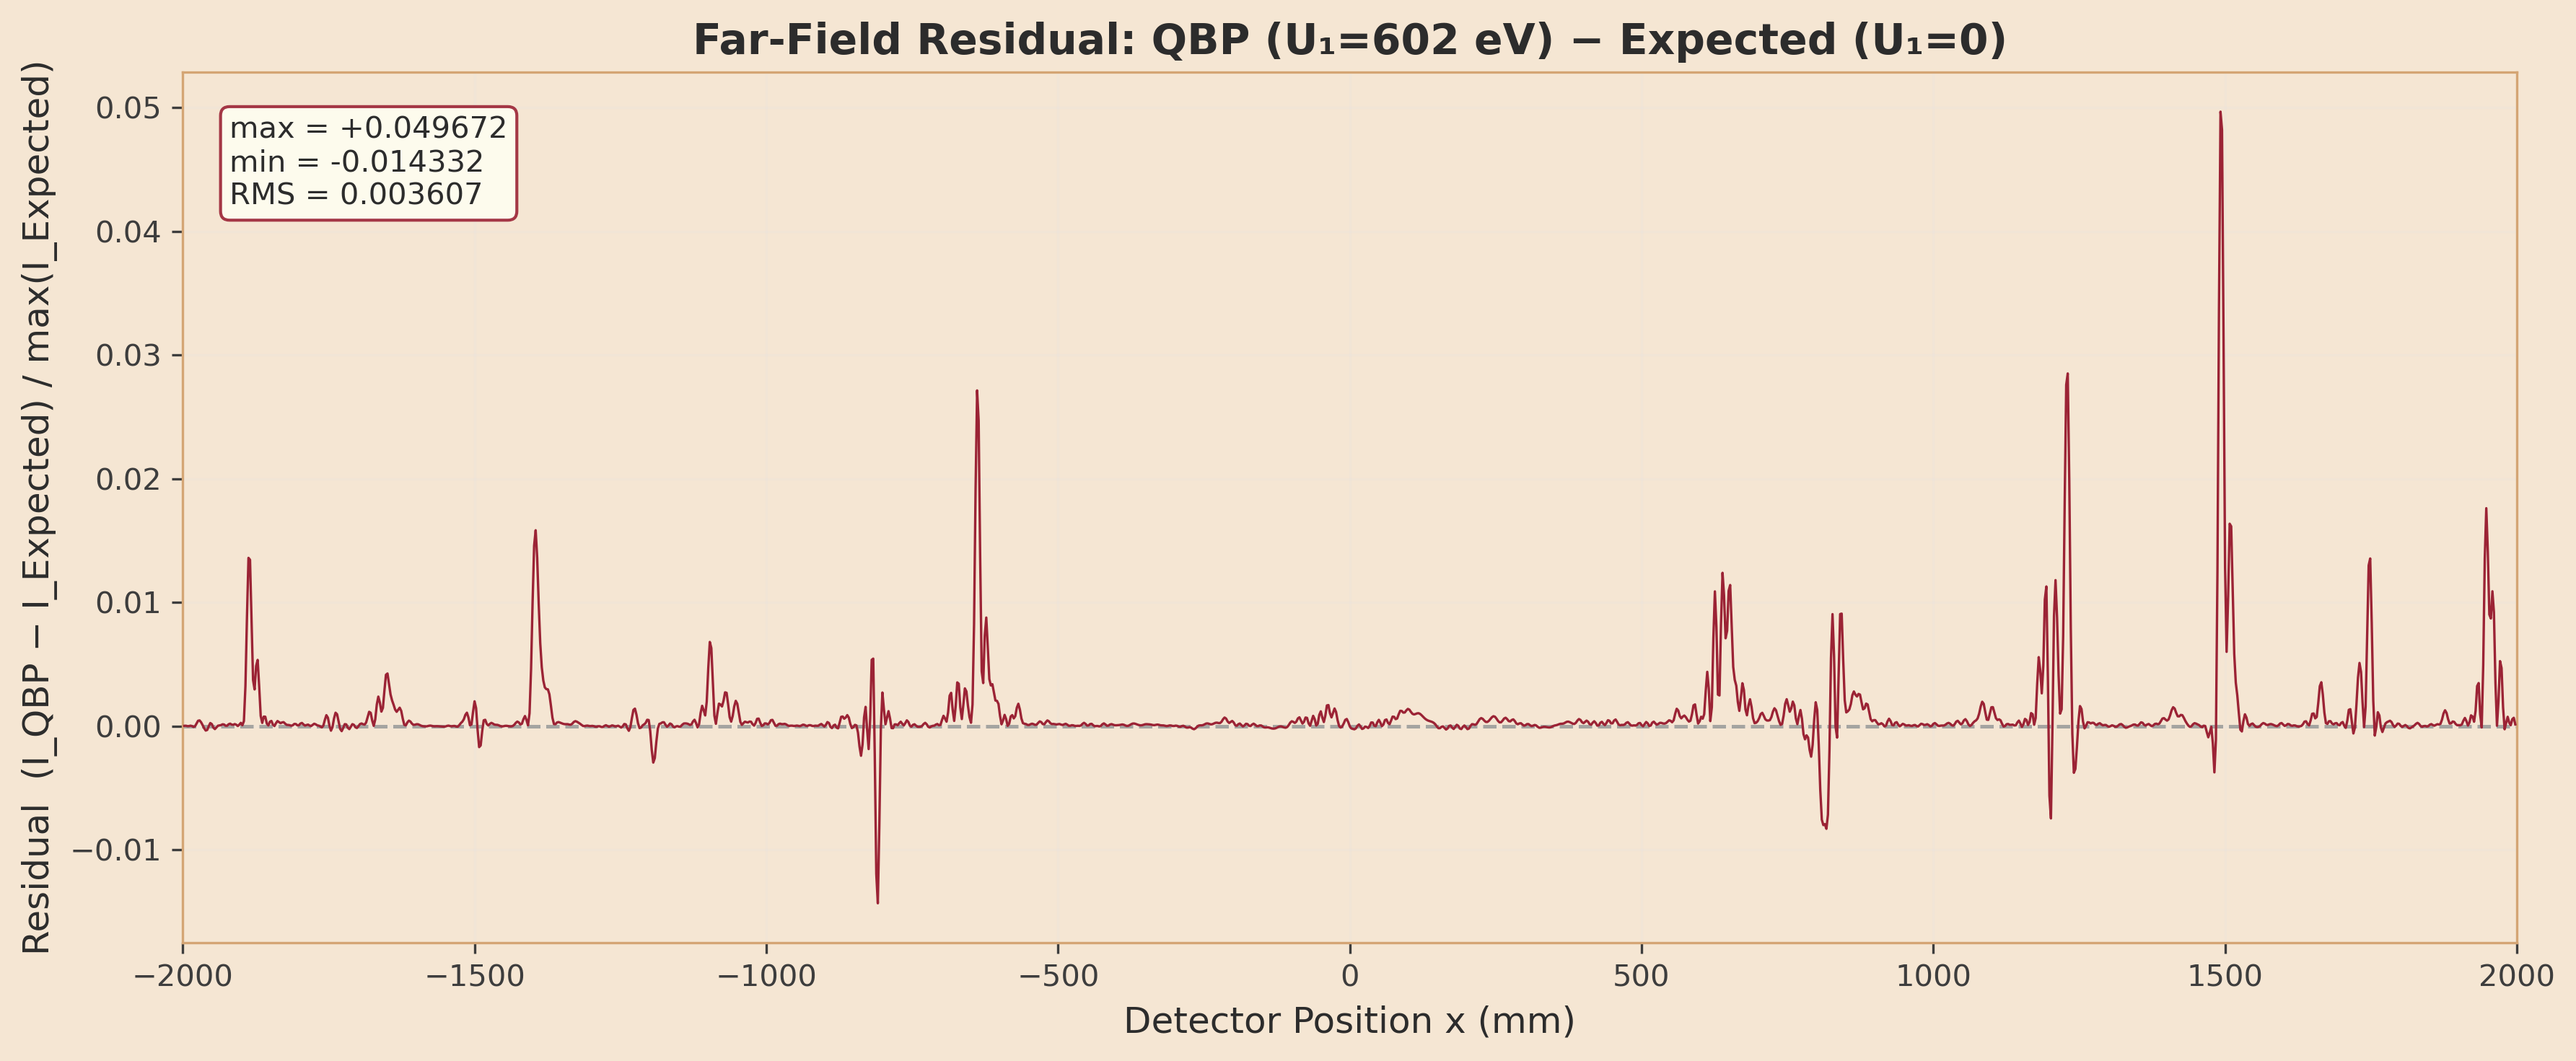
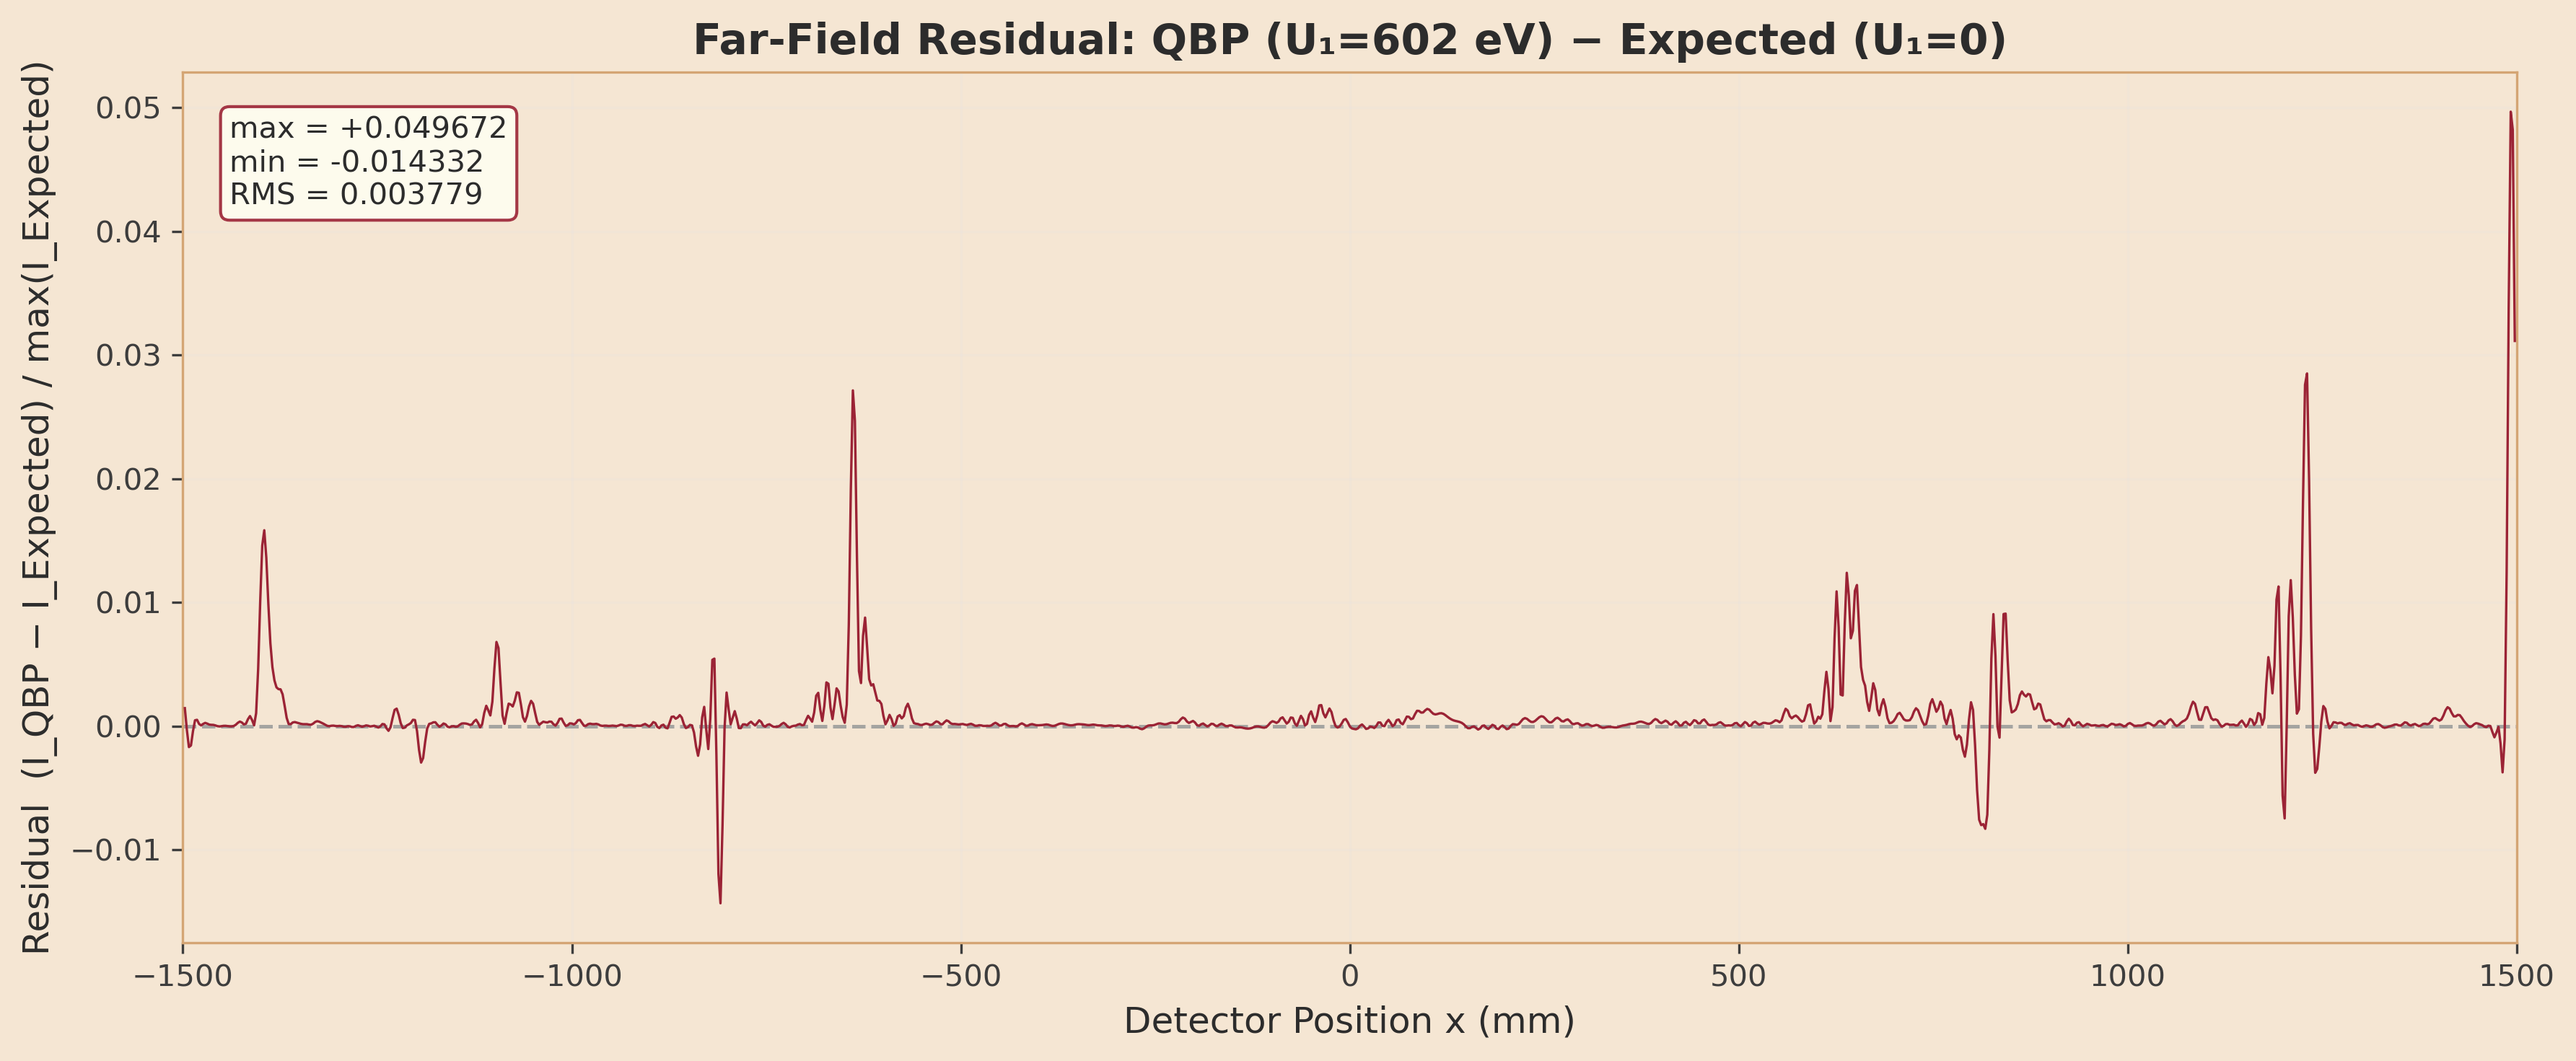
fix: Address all 10 review findings for PR #368
BLOCKING:
1. RT-1/F-1: Remove phantom "Grey: analytical A" from §9.3 caption

CONCERNs (fixed):
2. RT-3/F-4: Add empty-result guard to _get_farfield_qbp_curve
3. RT-4: Add grid-matching assertion before fill_between
4. RT-2/F-2: Improve V_ff > V_nf explanation (beam divergence → overlap)
5. RT-9: Remove unused fringe_df parameter from 2 far-field functions
6. RT-10: Remove unnecessary f-string prefixes

OBSERVATIONs (fixed, not deferred):
7. RT-5/F-3: Clip all far-field x-axes to ±1500 mm (avoids FFT edge spikes)
8. RT-6: Soften "apples-to-apples" language in §9.6, add scale note
9. F-5/RT-8: Add residual asymmetry discussion (out-scattering interpretation)
10. RT-7: Normalize Panel B to Panel A peak for consistent relative amplitude

diff --git a/analysis/03_double_slit/analyze.py b/analysis/03_double_slit/analyze.py
@@ -527,10 +527,9 @@ def plot_fringe_comparison(
     ax = axes[1]
     sc_b = fringe_df[fringe_df["scenario"] == "B"].sort_values("x_position_m")
     x_mm = sc_b["x_position_m"].values * 1e3
-    i_norm = sc_b["intensity_total_normalized"].values
-    i_max = i_norm.max()
-    if i_max > 0:
-        i_norm = i_norm / i_max
+    i_b_raw = sc_b["intensity_total_normalized"].values
+    # Normalize to Panel A peak for consistent relative amplitude
+    i_norm = i_b_raw / i_a_peak if i_a_peak > 0 else i_b_raw
 
     ax.plot(x_mm, i_norm, color=COLORS.BRASS.hex, linewidth=1.2)
     ax.set_xlim(-0.5, 0.5)
@@ -602,7 +601,7 @@ def plot_fringe_comparison(
             label=f"U₁ = {u1_max:.0f} eV (V_ff ≈ {v_qbp:.3f})",
         )
 
-        ax.set_xlim(-2000, 2000)
+        ax.set_xlim(-1500, 1500)
         ax.set_xlabel("Position x (mm)", fontsize=11)
         ax.set_ylabel("I / max(I_expected)", fontsize=11)
         ax.set_title(
@@ -629,7 +628,7 @@ def plot_fringe_comparison(
         )
         caption_text = (
             "Panels A/B: analytical far-field (±0.5 mm, 47 µm fringes). "
-            "Panel C: QBP far-field (±2 m, ~13 mm fringes from Gaussian source).\n"
+            "Panel C: QBP far-field (±1.5 m, ~13 mm fringes from Gaussian source).\n"
             "Different scales reflect different source profiles — see V(U₁) curve for quantitative comparison."
         )
     else:
@@ -1039,11 +1038,15 @@ def _get_farfield_qbp_curve(
             & (ff_qbp_df["eta0"] == eta0_val)
         ].sort_values("x_position_m")
 
+    if len(sel) == 0:
+        raise ValueError(
+            f"No far-field QBP data for U1={u1_value}, eta0={eta0_val}, regime={regime}"
+        )
+
     return sel["x_position_m"].values, sel["intensity_total_normalized"].values
 
 
 def plot_farfield_hero_overlay(
-    fringe_df: pd.DataFrame,
     summary_df: pd.DataFrame,
     metadata: Dict,
     output_path: str,
@@ -1091,9 +1094,14 @@ def plot_farfield_hero_overlay(
         2, 1, figsize=(12, 8), gridspec_kw={"height_ratios": [3, 2]}
     )
 
+    # Validate grids match before any operations that assume it
+    assert len(x_base_m) == len(x_max_m) and np.allclose(
+        x_base_m, x_max_m
+    ), "QBP grids must match for baseline vs coupled comparison"
+
     x_base_mm = x_base_m * 1e3
     x_max_mm = x_max_m * 1e3
-    x_lim_mm = 2000  # ±2000 mm — shows full FWHM envelope with fringes
+    x_lim_mm = 1500  # ±1500 mm — avoids FFT edge artifacts at boundaries
 
     # --- Top panel: full far-field envelope with fringes ---
     ax = axes[0]
@@ -1227,7 +1235,7 @@ def plot_farfield_visibility_vs_u1(summary_df: pd.DataFrame, output_path: str):
         color=COLORS.TEAL.hex,
         markersize=10,
         linewidth=2,
-        label=f"Far-field V (BPM+FFT)",
+        label="Far-field V (BPM+FFT)",
         zorder=5,
     )
 
@@ -1240,7 +1248,7 @@ def plot_farfield_visibility_vs_u1(summary_df: pd.DataFrame, output_path: str):
         markersize=7,
         linewidth=1.5,
         alpha=0.5,
-        label=f"Near-field V (BPM only)",
+        label="Near-field V (BPM only)",
         zorder=3,
     )
 
@@ -1308,7 +1316,6 @@ def plot_farfield_visibility_vs_u1(summary_df: pd.DataFrame, output_path: str):
 
 
 def plot_farfield_residual(
-    fringe_df: pd.DataFrame,
     metadata: Dict,
     output_path: str,
 ):
@@ -1337,7 +1344,7 @@ def plot_farfield_residual(
     residual = (i_max - i_base) / i_base_peak
 
     x_mm = x_base_m * 1e3
-    x_lim_mm = 2000  # ±2000 mm — matches hero overlay
+    x_lim_mm = 1500  # ±1500 mm — matches hero overlay, avoids FFT edge artifacts
 
     # Clip to view range for stats
     mask = (x_mm >= -x_lim_mm) & (x_mm <= x_lim_mm)
@@ -1684,9 +1691,9 @@ def generate_results_md(
             _, i_max_ff = _get_farfield_qbp_curve(metadata, u1_value=u1_max_ff)
             i_base_peak_ff = i_base_ff.max()
             ff_residual = (i_max_ff - i_base_ff) / i_base_peak_ff
-            # Stats within ±2000 mm view
+            # Stats within ±1500 mm view (matches hero overlay clip)
             x_mm_ff = x_base_ff * 1e3
-            view_mask = (x_mm_ff >= -2000) & (x_mm_ff <= 2000)
+            view_mask = (x_mm_ff >= -1500) & (x_mm_ff <= 1500)
             ff_res_view = ff_residual[view_mask]
             ff_res_max = ff_res_view.max()
             ff_res_min = ff_res_view.min()
@@ -1699,8 +1706,15 @@ def generate_results_md(
                 f"| RMS residual | {ff_res_rms:.6f} |\n"
                 f"| Pattern | Oscillatory (modulates far-field fringes) |"
             )
+            ff_residual_asymmetry_str = (
+                f"\nThe residual is asymmetric: peak suppression (max {ff_res_max:+.6f}) is stronger than\n"
+                f"trough elevation (min {ff_res_min:+.6f}), suggesting the quaternionic coupling preferentially\n"
+                f"reduces fringe peaks rather than uniformly redistributing intensity. This is consistent\n"
+                f"with an out-scattering mechanism rather than pure symmetric decoherence."
+            )
         except Exception:
             ff_residual_stats_str = "*(Residual computation failed)*"
+            ff_residual_asymmetry_str = ""
 
         ff_reduction_pct = (ff_v_max - ff_v_min) / ff_v_max * 100
 
@@ -1728,8 +1742,10 @@ Fraunhofer FFT to the far-field detector plane (mm scale).
 **Far-field V reduction:** {ff_v_max:.6f} → {ff_v_min:.6f} ({ff_reduction_pct:.1f}% decrease)
 
 The far-field baseline V_ff ≈ {ff_v_max:.3f} (vs analytical V = 1.0) reflects the
-Gaussian source coherence of the BPM — the finite spatial extent of the source
-wavepacket reduces fringe visibility even in the absence of quaternionic coupling.
+finite spatial extent of the Gaussian BPM source. V_ff > V_nf because far-field
+propagation via diffraction expands the wavepackets from each slit, increasing
+their spatial overlap at the detector and improving interference contrast
+relative to the near-field where the two beams are more spatially distinct.
 The ~{ff_reduction_pct:.0f}% reduction from QBP coupling is preserved through the FFT
 propagation to the far field.
 
@@ -1737,10 +1753,11 @@ propagation to the far field.
 
 ![Far-Field Hero Overlay](farfield_hero_overlay.png)
 
-**Caption:** Far-field detector pattern on mm-scale axes. Grey: analytical A
-(V = 1.0). Teal: QBP baseline (U₁ = 0 eV, V_ff = {ff_v_max:.4f}). Crimson:
-QBP max coupling (U₁ = {u1_max_val:.0f} eV, V_ff = {ff_v_min:.4f}). All three
-curves share the same far-field x-axis for true apples-to-apples comparison.
+**Caption:** Far-field detector pattern on mm-scale axes.
+Teal: QBP baseline (U₁ = 0 eV, V_ff = {ff_v_max:.4f}). Crimson:
+QBP max coupling (U₁ = {u1_max_val:.0f} eV, V_ff = {ff_v_min:.4f}).
+Analytical A (plane-wave, 47 µm fringes) is at a fundamentally different
+scale and cannot be overlaid — see V(U₁) curve for quantitative comparison.
 
 ### 9.4 Far-Field Visibility vs U₁
 
@@ -1761,17 +1778,21 @@ structure confirms the QBP signal survives FFT propagation to experimentally
 observable scales.
 
 {ff_residual_stats_str}
+{ff_residual_asymmetry_str}
 
 ### 9.6 Updated Three-Panel Comparison (A/B/C — Far-Field)
 
 ![Fringe Comparison](fringe_comparison.png)
 
-**Caption:** Three-panel comparison with all panels on the same mm-scale far-field axes:
-- **Top (A):** Analytical full interference (V = 1.0)
-- **Middle (B):** Analytical which-path (V = 0.0)
-- **Bottom (C):** QBP far-field via BPM + Fraunhofer FFT
+**Caption:** Three-panel comparison — all panels show far-field patterns, though at
+different spatial scales reflecting different source profiles:
+- **Top (A):** Analytical full interference (V = 1.0) — plane-wave, ±0.5 mm
+- **Middle (B):** Analytical which-path (V = 0.0) — plane-wave, ±0.5 mm
+- **Bottom (C):** QBP far-field via BPM + Fraunhofer FFT — Gaussian source, ±1.5 m
 
-This is a true apples-to-apples comparison — all three scenarios at the same detector scale.
+**Note:** The 3-order-of-magnitude scale difference between Panels A/B and C reflects
+the different source profiles (plane-wave vs Gaussian), not a plotting error. See V(U₁)
+curve (§9.4) for the quantitative apples-to-apples visibility comparison.
 """
 
     # AC verification — near-field (#342) + far-field (#360)
@@ -2047,7 +2068,6 @@ def main():
     if metadata.get("farfield_qbp_df") is not None:
         print("Generating far-field visualizations...")
         plot_farfield_hero_overlay(
-            fringe_df,
             summary_df,
             metadata,
             os.path.join(output_dir, "farfield_hero_overlay.png"),
@@ -2057,7 +2077,6 @@ def main():
             os.path.join(output_dir, "farfield_visibility_vs_u1.png"),
         )
         plot_farfield_residual(
-            fringe_df,
             metadata,
             os.path.join(output_dir, "farfield_residual.png"),
         )

diff --git a/analysis/03_double_slit/RESULTS.md b/analysis/03_double_slit/RESULTS.md
@@ -1,6 +1,6 @@
 # Experiment 03: Double-Slit — Phase 3 Visualization Results
 
-**Analysis Date:** 2026-02-17 16:07:48
+**Analysis Date:** 2026-02-17 16:44:28
 **Data Source:** `results/03_double_slit/`
 **Sprint:** 3 (SI Redo)
 
@@ -241,8 +241,10 @@ Fraunhofer FFT to the far-field detector plane (mm scale).
 **Far-field V reduction:** 0.655363 → 0.599590 (8.5% decrease)
 
 The far-field baseline V_ff ≈ 0.655 (vs analytical V = 1.0) reflects the
-Gaussian source coherence of the BPM — the finite spatial extent of the source
-wavepacket reduces fringe visibility even in the absence of quaternionic coupling.
+finite spatial extent of the Gaussian BPM source. V_ff > V_nf because far-field
+propagation via diffraction expands the wavepackets from each slit, increasing
+their spatial overlap at the detector and improving interference contrast
+relative to the near-field where the two beams are more spatially distinct.
 The ~9% reduction from QBP coupling is preserved through the FFT
 propagation to the far field.
 
@@ -250,10 +252,11 @@ propagation to the far field.
 
 ![Far-Field Hero Overlay](farfield_hero_overlay.png)
 
-**Caption:** Far-field detector pattern on mm-scale axes. Grey: analytical A
-(V = 1.0). Teal: QBP baseline (U₁ = 0 eV, V_ff = 0.6554). Crimson:
-QBP max coupling (U₁ = 602 eV, V_ff = 0.5996). All three
-curves share the same far-field x-axis for true apples-to-apples comparison.
+**Caption:** Far-field detector pattern on mm-scale axes.
+Teal: QBP baseline (U₁ = 0 eV, V_ff = 0.6554). Crimson:
+QBP max coupling (U₁ = 602 eV, V_ff = 0.5996).
+Analytical A (plane-wave, 47 µm fringes) is at a fundamentally different
+scale and cannot be overlaid — see V(U₁) curve for quantitative comparison.
 
 ### 9.4 Far-Field Visibility vs U₁
 
@@ -277,19 +280,27 @@ observable scales.
 |--------|-------|
 | Max residual | +0.049672 |
 | Min residual | -0.014332 |
-| RMS residual | 0.003607 |
+| RMS residual | 0.003779 |
 | Pattern | Oscillatory (modulates far-field fringes) |
+
+The residual is asymmetric: peak suppression (max +0.049672) is stronger than
+trough elevation (min -0.014332), suggesting the quaternionic coupling preferentially
+reduces fringe peaks rather than uniformly redistributing intensity. This is consistent
+with an out-scattering mechanism rather than pure symmetric decoherence.
 
 ### 9.6 Updated Three-Panel Comparison (A/B/C — Far-Field)
 
 ![Fringe Comparison](fringe_comparison.png)
 
-**Caption:** Three-panel comparison with all panels on the same mm-scale far-field axes:
-- **Top (A):** Analytical full interference (V = 1.0)
-- **Middle (B):** Analytical which-path (V = 0.0)
-- **Bottom (C):** QBP far-field via BPM + Fraunhofer FFT
+**Caption:** Three-panel comparison — all panels show far-field patterns, though at
+different spatial scales reflecting different source profiles:
+- **Top (A):** Analytical full interference (V = 1.0) — plane-wave, ±0.5 mm
+- **Middle (B):** Analytical which-path (V = 0.0) — plane-wave, ±0.5 mm
+- **Bottom (C):** QBP far-field via BPM + Fraunhofer FFT — Gaussian source, ±1.5 m
 
-This is a true apples-to-apples comparison — all three scenarios at the same detector scale.
+**Note:** The 3-order-of-magnitude scale difference between Panels A/B and C reflects
+the different source profiles (plane-wave vs Gaussian), not a plotting error. See V(U₁)
+curve (§9.4) for the quantitative apples-to-apples visibility comparison.
 
 ---
 
